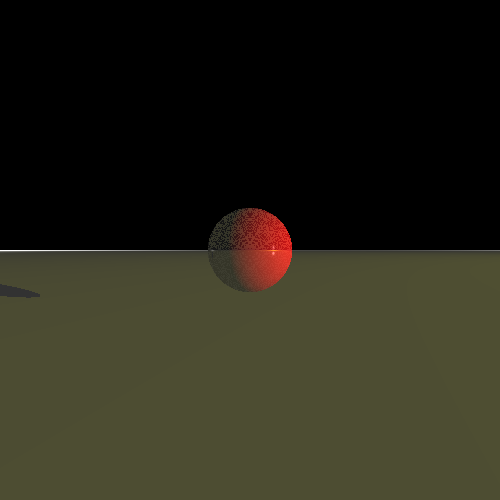
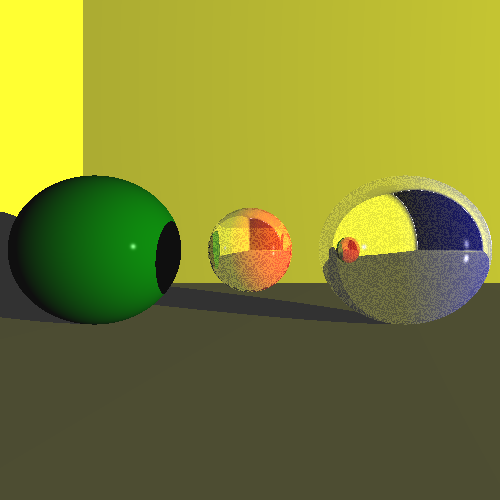
feat: format renderer

diff --git a/renderer.py b/renderer.py
@@ -6,11 +6,14 @@ from light import Light
 from objects.sphere import Sphere
 from objects.mesh import Mesh
 from objects.plane import Plane
+from vector import Vector
+from point import Point
 from ray import Ray
 import math
 import concurrent.futures
 from typing import List, Tuple
 import time
+
 
 class Renderer:
     """
@@ -37,7 +40,7 @@ class Renderer:
         chunk_colors = []
       
         for i in range(start_row, end_row):
-            if(i%(end_row - ((end_row -start_row)/2)) == 0):
+            if(i%(end_row - ((end_row -start_row)/2)) == 0 or start_row == i):
                 print(f"Rendering row {i}/{end_row} time: {time.perf_counter() - self.start_time:.2f} seconds")
             
             for j in range(self.hres):
@@ -89,6 +92,36 @@ class Renderer:
                     
 
         print('100.00% - Concluído!')
+        cv.imwrite("output.png", self.image)
+        cv.imshow("Ray Tracing", self.image)
+        cv.waitKey(0)
+        cv.destroyAllWindows()
+
+    def render_single_thread(self):
+        """
+        Render the scene using a single thread
+        """
+        self.start_time = time.perf_counter()
+        total_pixels = self.hres * self.vres
+        pixels_done = 0
+
+        for i in range(self.vres):
+            if i % 10 == 0:  # Print progress every 10 rows
+                print(f"Rendering row {i}/{self.vres} time: {time.perf_counter() - self.start_time:.2f} seconds")
+            
+            for j in range(self.hres):
+                ray = self.camera.generate_ray(j, i)
+                color = self.trace_ray(ray, self.objects)
+                self.image[i,j] = color
+                pixels_done += 1
+                
+                if pixels_done % 1000 == 0:  # Print progress every 1000 pixels
+                    print(f"Progress: {pixels_done}/{total_pixels} pixels ({pixels_done/total_pixels*100:.2f}%)")
+
+        end_time = time.perf_counter()
+        print(f"Total render time: {end_time - self.start_time:.2f} seconds")
+        print('100.00% - Concluído!')
+        cv.imwrite("output.png", self.image)
         cv.imshow("Ray Tracing", self.image)
         cv.waitKey(0)
         cv.destroyAllWindows()
@@ -109,41 +142,65 @@ class Renderer:
 
         return cos_theta_t
     
-    def phong(self, ka, Ia, Il, kd, Od, N, L, ks, R, V, n, lim_r, k_r, camera_vector, objects, intersection_point, 
-              current_obj, k_t, n_in, n_out, reflection=True, refraction=True, counter_r=0):
+    def phong(
+        self,
+        ka: float,
+        Ia: np.ndarray,
+        Il: List[np.ndarray],
+        kd: float,
+        Od: np.ndarray,
+        N: Vector,
+        L: List[Vector],
+        ks: float,
+        R: List[Vector],
+        V: Vector,
+        n: int,
+        lim_r: int,
+        k_r: float,
+        camera_vector: Vector,
+        objects: Sphere | Plane | Mesh,
+        intersection_point: Point,
+        current_obj: Sphere | Plane | Mesh,
+        k_t: float,
+        n_in: float,
+        n_out: float,
+        reflection: bool = True,
+        refraction: bool = True,
+        counter_r: int = 0,
+    ) -> np.ndarray:
         """
-            ka (entre 0 e 1): coeficiente ambiental
-            Ia (conjunto RGB do tipo [[0,255],[0,255], [0,255]]): cor da luz ambiental
-            Il (array de RGBs do tipo [[0,255], [0,255], [0,255],  ...]) = array com as luzes do ambiente
-            kd (entre 0 e 1): coeficiente de difusão do objeto
-            Od (conjunto RGB do tipo [[0,255],[0,255], [0,255]]): conjunto RGB que representa a cor do objeto
-            N (vetor): vetor normal ao ponto de interseção do objeto com a câmera
-            L (array de vetores): vetores que representam as direções das luzes
-            ks (entre 0 e 1): coeficiente especular do objeto
-            R (array de vetores): vetores que representam as direções dos raios refletidos
-            V (vetor): vetor que representa a direção da câmera
-            n (inteiro): expoente da componente especular do objeto
-            lim_r (inteiro): limite de reflexões
-            k_r (entre 0 e 1): coeficiente de reflexão do objeto
-            camera_vector (vetor): vetor que vem do observador para calcular a reflexão
-            objects (lista de objetos): lista de objetos que podem refletir ou refratar a luz
-            intersection_point (ponto): ponto de interseção do objeto com a câmera
-            current_obj (objeto): objeto atual resultado da intersecção
-            k_t (entre 0 e 1): coeficiente de refração do objeto
-            n_in (inteiro >=0): índice de refração na entrada da superfície
-            n_out (inteiro >= 1): índice de refração na saída da superfície
-            reflection (boolean): indica se o objeto está refletindo a luz
-            refraction (boolean): indica se o objeto está refratando a luz
-            counter_r (inteiro): incrementa em um a cada chamada recursiva de phong
-        Retorna:
-                Um vetor RGB que representa a cor final do objeto
+        ka (between 0 and 1): ambient coefficient
+        Ia (RGB between 0 and 255): ambient light color
+        Il (list of RGBs): light colors
+        kd (between 0 and 1): diffuse coefficient
+        Od (RGB between 0 and 255): object color
+        N (vector): normal vector
+        L (list of vectors): light directions
+        ks (between 0 and 1): specular coefficient
+        R (list of vectors): reflected ray directions
+        V (vector): camera direction
+        n (integer): specular exponent
+        lim_r (integer): max number of reflections
+        k_r (between 0 and 1): reflection coefficient
+        camera_vector (vector): camera direction
+        objects (list of objects): list of objects that can reflect or refract light
+        intersection_point (point): intersection point with the object
+        current_obj (object): current object
+        k_t (between 0 and 1): refraction coefficient
+        n_in (float): refraction index in
+        n_out (float): refraction index out
+        reflection (boolean): reflection enabled
+        refraction (boolean): refraction enabled
+        counter_r (integer): number of recursive calls
 
+        Returns:
+            RGB color of the object
         """
-        # Normalização das componentes
-        Ia = Ia/255.0
-        Il = np.array(Il)/255.0
+        # Normalize components
+        Ia = Ia / 255.0
+        Il = np.array(Il) / 255.0
 
-        # Componente Ambiental
+        # Ambient component
         environmental_component = ka * Ia
         diffuse_component = np.zeros(3)
         specular_component = np.zeros(3)
@@ -151,31 +208,52 @@ class Renderer:
         refraction_component = np.zeros(3)
 
         for i in range(len(Il)):
-                # Cálculo da componente difusa e da componente especular
-                diffuse_component += kd * Il[i] * max(0, N.dot_product(L[i])) * Od
-                specular_component += ks * Il[i] * max(0, (R[i].dot_product(V))**n)
+            # Calculate diffuse and specular components
+            diffuse_component += kd * Il[i] * max(0, N.dot_product(L[i])) * Od
+            specular_component += ks * Il[i] * max(0, (R[i].dot_product(V)) ** n)
 
         if counter_r <= lim_r:
-            # Cálculo da componente de reflexão
-            if reflection and (k_r != 0):
+            # Calculate reflection component
+            nextCounter = counter_r + 1
+            if reflection and k_r != 0:
                 reflected_vector = (2 * N.dot_product(camera_vector) * N - camera_vector).normalize()
                 reflected_vector = reflected_vector * -1
-                Ir = self.trace_ray(ray=Ray(intersection_point, reflected_vector), objects=objects,counter_r=counter_r+1, 
-                                    reflection=True, refraction=False)
-                Ir = Ir/255.0
+                Ir = self.trace_ray(
+                    ray=Ray(intersection_point, reflected_vector),
+                    objects=objects,
+                    counter_r=nextCounter,
+                    reflection=True,
+                    refraction=True,
+                    n_in=n_out,
+                    
+                )
+                Ir = Ir / 255.0
                 reflection_component = k_r * Ir
-            if refraction and (k_t != 0):
+
+            # Calculate refraction component
+            if refraction and k_t != 0:
                 snell = n_in / n_out
                 cos_theta = N.dot_product(camera_vector)
                 cost_theta_t = self.cos_theta_t(n_in, n_out, cos_theta)
                 if type(cost_theta_t) != str:
-                    refracted_vector = ((1/snell) * camera_vector - ((cost_theta_t - (1/snell) * cos_theta) * N)).normalize()
-                    It = self.trace_ray(ray=Ray(intersection_point, refracted_vector), objects=objects, counter_r=counter_r+1, 
-                                        n_in=n_out, reflection=False, refraction=True)
-                    It = It/255.0
+                    refracted_vector = (
+                        (1 / snell) * camera_vector - ((cost_theta_t - (1 / snell) * cos_theta) * N)
+                    ).normalize()
+                    It = self.trace_ray(
+                        ray=Ray(intersection_point, refracted_vector),
+                        objects=objects,
+                        counter_r=nextCounter,
+                        n_in=n_out,
+                        reflection=True,
+                        refraction=True,
+                    )
+                    It = It / 255.0
                     refraction_component = k_t * It
 
-        final_color = environmental_component + diffuse_component + specular_component + reflection_component + refraction_component
+        final_color = (
+            environmental_component + diffuse_component + specular_component
+            + reflection_component + refraction_component
+        )
         final_color = np.clip(final_color, 0, 1) * 255
 
         return final_color

diff --git a/main.py b/main.py
@@ -22,6 +22,16 @@ def main():
         vres=500,
     )
 
+    # camera = Camera(
+    #     camera_point=Point(6, 1, 2),
+    #     target_point=Point(
+    #         6, 1, 0),
+    #     vector_up=Vector(0, 1, 0),
+    #     target_distance=1,
+    #     hres=500,
+    #     vres=500,
+    #)
+
     # Transformações afins
 
     # Configurações das esferas
@@ -183,20 +193,21 @@ def main():
     meshTransformerd = apply_affine_transformation(mesh, matrix)
 
 
-    # reader = ObjReader("inputs/macaco.obj")
+    # reader = ObjReader("inputs/icosahedron.obj")
+    # # reader = ObjReader("inputs/macaco.obj")
     # reader.read_file()
 
     # mesh = reader.create_mesh()
-    objects = [ plane, sphere1,  sphere2, sphere3, plane2, plane3  ]
+    objects = [plane, plane2, plane3, sphere1, sphere2, sphere3]
 
     # Luzes
     light1 = Light(Point(100, 10, 50), np.array([255, 255, 255]))
- 
+  
     lights = [light1]
     ambiental_color_light = np.array([50, 50, 50])
     # Cria o renderizador
     renderer = Renderer(camera, objects, lights, ambiental_color_light)
-    renderer.render(num_threads=30)
+    renderer.render_single_thread()
 
 
 if __name__ == "__main__":

diff --git a/obj_reader.py b/obj_reader.py
@@ -104,13 +104,13 @@ class ObjReader:
             normal_list=[face.normal_indices for face in self.faces],
             vertices_normal_list=self.normals,
             colors_normalized_list=[
-                np.array((1, 0, 0)) for face in self.faces for color in enumerate(self.faces)
+                np.array((1, 1, 0)) for face in self.faces for color in enumerate(self.faces)
             ],
             color=np.array([1, 0, 0]),
-            k_ambient=0.3,
-            k_diffuse=0.7,
+            k_ambient=1,
+            k_diffuse=1,
             k_specular=0.6,
-            k_reflection=0.2,
+            k_reflection=0,
             k_refraction=0.0,
             refraction_index=1.5,
             n=30
